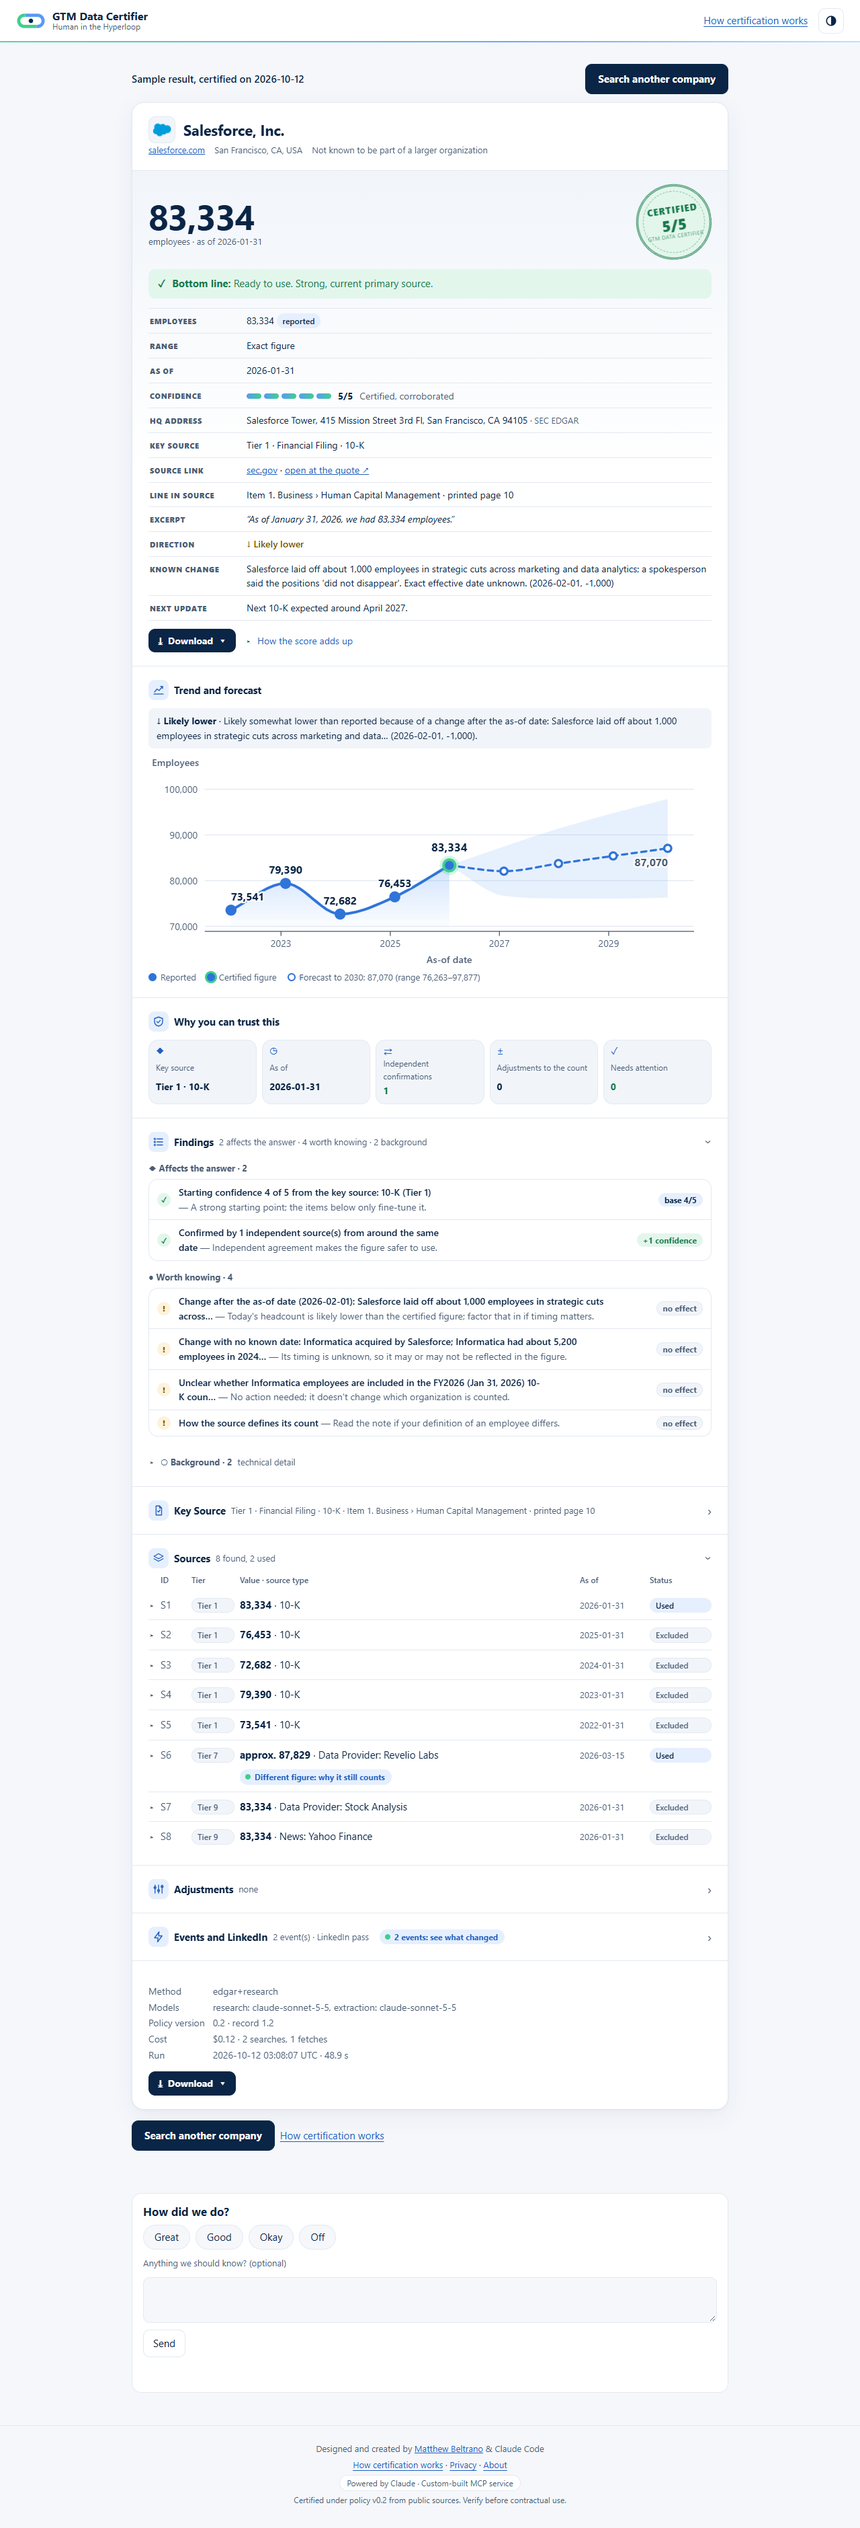
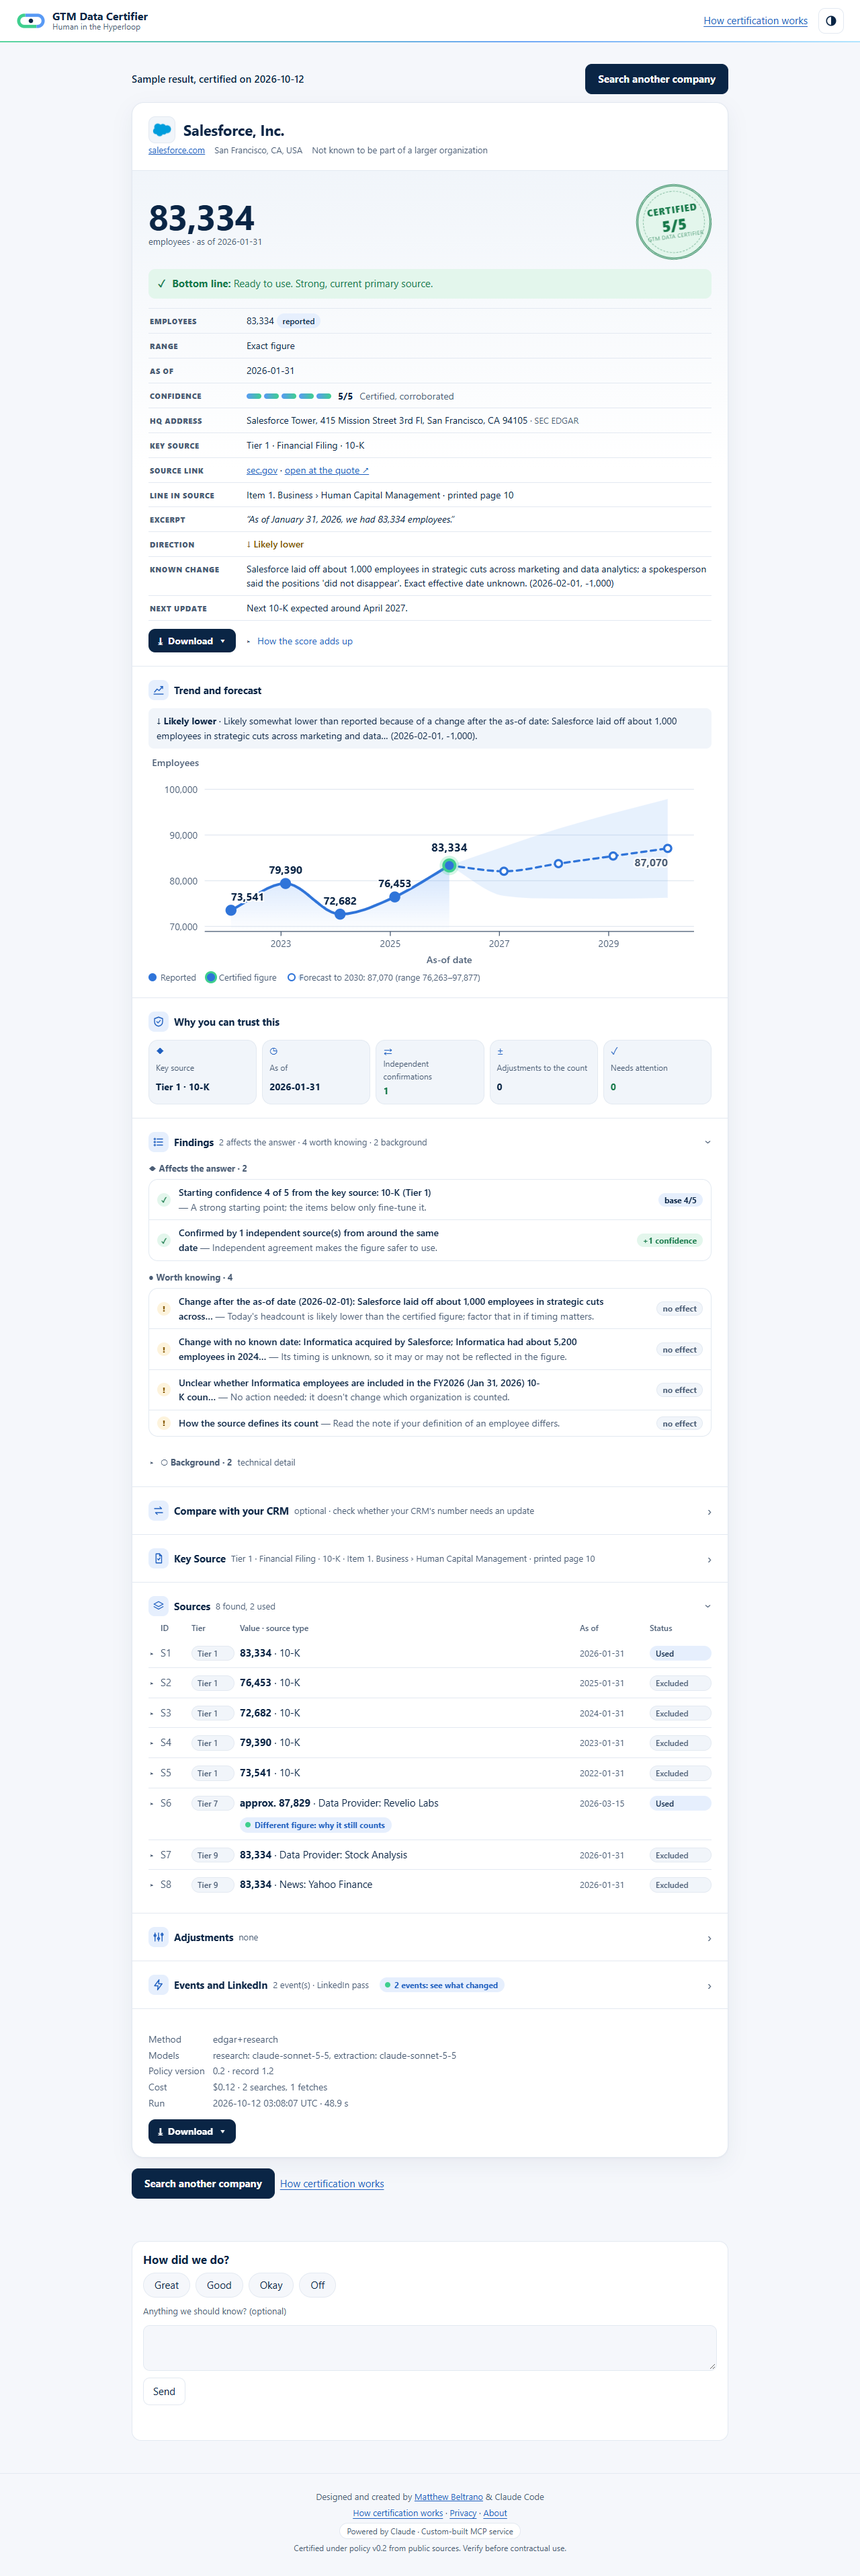
Compare with your CRM: optional bumper-car recommendation
Collapsed section after Findings. A lane around the certified figure narrows
with confidence (5% at 5/5 to 40% at 1/5) and widens toward the likely
direction. Inside: keep. Outside: move in, to the certified figure at 4-5/5,
halfway at 3/5, to the bumper at 1-2/5; stronger when the move agrees with
the direction, only to the bumper when it doesn't. Runs in the page.

diff --git a/src/certifier/card.py b/src/certifier/card.py
@@ -224,6 +224,26 @@ CARD_CSS = r"""
 .cert .dl-group { margin: 6px 10px 2px; font-size: 11px; font-weight: 800; letter-spacing: .06em; text-transform: uppercase; color: var(--muted); }
 .cert .footer-actions { margin-top: 12px; }
 .cert .footer-actions .dl-items { top: auto; bottom: calc(100% + 6px); }
+.cert .crm-form label { display: block; font-size: 12px; font-weight: 800; letter-spacing: .06em; text-transform: uppercase; color: var(--muted); margin-bottom: 4px; }
+.cert .crm-row { display: flex; gap: 8px; max-width: 420px; }
+.cert .crm-row input { flex: 1; min-width: 0; font: inherit; padding: 8px 10px; border-radius: 10px; border: 1px solid var(--line); background: var(--card); color: var(--text); }
+.cert .crm-out { margin-top: 12px; }
+.cert .crm-verdict { margin: 0 0 6px; padding: 10px 12px; border-radius: 10px; font-size: 14px; }
+.cert .crm-verdict.keep { background: var(--green-bg); color: var(--green); }
+.cert .crm-verdict.strong { background: var(--red-bg); color: var(--red); }
+.cert .crm-verdict.moderate { background: var(--yellow-bg); color: var(--yellow); }
+.cert .crm-verdict.light { background: var(--soft); color: var(--text); }
+.cert .lane { position: relative; height: 14px; margin: 34px 0 34px; border-radius: 999px; background: var(--soft); border: 1px solid var(--line); }
+.cert .lane-band { position: absolute; top: -1px; bottom: -1px; border-radius: 999px; background: linear-gradient(90deg, rgba(63, 207, 142, .35), rgba(89, 154, 245, .35));
+  border: 1.5px solid var(--loop-green); }
+.cert .lane-mark { position: absolute; top: 50%; width: 14px; height: 14px; margin: -7px 0 0 -7px; border-radius: 50%; border: 3px solid var(--card); }
+.cert .lane-mark b { position: absolute; left: 50%; transform: translateX(-50%); white-space: nowrap; font-size: 11.5px; font-weight: 700; }
+.cert .cert-mark { background: var(--loop-green); box-shadow: 0 0 0 2px var(--loop-green); }
+.cert .cert-mark b { bottom: 18px; color: var(--green); }
+.cert .crm-mark { background: var(--muted); }
+.cert .crm-mark b { top: 18px; color: var(--muted); }
+.cert .target-mark { background: var(--loop-blue); }
+.cert .target-mark b { bottom: 18px; color: var(--accent); }
 .cert .hint { display: inline-flex; align-items: center; gap: 6px; margin-left: 8px; padding: 2px 10px 2px 8px; border-radius: 999px;
   font-size: 12px; font-weight: 700; color: var(--accent); background: var(--accent-soft); white-space: nowrap; }
 .cert .hint i { width: 8px; height: 8px; border-radius: 50%; background: var(--loop-green); animation: cert-ping 1.6s ease-out infinite; }
@@ -343,7 +363,8 @@ CARD_JS = r"""
     adjust: '<path d="M5 4v16M12 4v16M19 4v16"/><circle cx="5" cy="9" r="2"/><circle cx="12" cy="15" r="2"/><circle cx="19" cy="7" r="2"/>',
     events: '<path d="M13 2L4 14h7l-1 8 9-12h-7z"/>',
     trend: '<path d="M3 20h18"/><path d="M4 16l5-6 4 3 7-8"/><path d="M16 5h4v4"/>',
-    trust: '<path d="M12 3l8 3v6c0 5-3.5 8-8 9-4.5-1-8-4-8-9V6z"/><path d="M8.5 12l2.5 2.5 4.5-5"/>'
+    trust: '<path d="M12 3l8 3v6c0 5-3.5 8-8 9-4.5-1-8-4-8-9V6z"/><path d="M8.5 12l2.5 2.5 4.5-5"/>',
+    compare: '<path d="M4 8h14l-3.5-3.5"/><path d="M20 16H6l3.5 3.5"/>'
   };
   function icon(name, cls) {
     var span = el("span", { cls: "ico" + (cls ? " " + cls : ""), "aria-hidden": "true" });
@@ -833,6 +854,89 @@ CARD_JS = r"""
     details.addEventListener("toggle", function () { if (details.open) { markSeen(key); h.remove(); } });
   }
 
+  // ---------- Compare with your CRM (optional): bumper-car recommendation ----------
+  // The certified figure sits in a lane whose bumpers narrow as confidence rises. A CRM number inside the lane is
+  // fine; outside it, we suggest moving it in, pushing harder (toward the certified figure itself) the higher the
+  // confidence, and harder still when the move agrees with the likely direction since the as-of date.
+  var CRM_TOLERANCE = { 5: 0.05, 4: 0.08, 3: 0.15, 2: 0.25, 1: 0.40 };
+  var CRM_STRENGTH = { strong: "Update recommended", moderate: "Consider updating", light: "Optional: review" };
+  function parseCount(text) {
+    var m = String(text || "").trim().toLowerCase().replace(/[,\s]/g, "").match(/^(\d+(?:\.\d+)?)(k|m)?$/);
+    if (!m) return null;
+    var v = parseFloat(m[1]) * (m[2] === "k" ? 1e3 : m[2] === "m" ? 1e6 : 1);
+    return v > 0 ? Math.round(v) : null;
+  }
+  function crmAdvice(r, v) {
+    var h = r.headline, c = h.count, score = r.confidence.score, t = CRM_TOLERANCE[score];
+    if (c == null || !t) return { kind: "none", text: "There's no certified figure to compare against." };
+    var lo = Math.min(h.range ? h.range[0] : c, c * (1 - t)), hi = Math.max(h.range ? h.range[1] : c, c * (1 + t));
+    if (h.direction === "lower") lo -= c * t / 2;  // the true figure has likely moved down: widen the lower bumper
+    if (h.direction === "higher") hi += c * t / 2;
+    lo = Math.round(lo); hi = Math.round(hi);
+    var band = { lo: lo, hi: hi, certified: c };
+    if (v >= lo && v <= hi) {
+      return { kind: "keep", band: band, label: "Keep your number",
+        text: "Your CRM's " + num(v) + " is inside the certified range for a " + score + "/5 certification (" + num(lo) + "–" + num(hi) +
+          "). No change needed" + (Math.abs(v - c) / c > 0.02 ? "; for the most exact figure, use " + num(c) + "." : ".") };
+    }
+    var above = v > hi, edge = above ? hi : lo, off = above ? (v - hi) / hi : (lo - v) / lo;
+    var agrees = (above && h.direction === "lower") || (!above && h.direction === "higher");
+    var against = (above && h.direction === "higher") || (!above && h.direction === "lower");
+    var target = score >= 4 ? c : score === 3 ? Math.round((edge + c) / 2) : edge;
+    var strength = score >= 4 ? "strong" : score === 3 ? "moderate" : "light";
+    if (agrees) strength = strength === "light" ? "moderate" : "strong";
+    if (against) {
+      target = edge;  // the true figure may be beyond ours in your direction: move only into the lane
+      if (strength === "strong" && score < 5) strength = "moderate";
+    }
+    var why = agrees ? " The likely direction since the as-of date (" + h.direction + ") points the same way, so we'd make this change."
+      : against ? " The figure has likely moved " + (h.direction === "higher" ? "up" : "down") + " since its as-of date, so we suggest moving only to the edge of the range."
+      : "";
+    return { kind: strength, band: band, target: target, label: CRM_STRENGTH[strength],
+      text: "Your CRM's " + num(v) + " is " + Math.round(off * 100) + "% " + (above ? "above" : "below") + " the certified range for a " + score +
+        "/5 certification (" + num(lo) + "–" + num(hi) + "). Suggested update: " + num(target) + "." + why };
+  }
+  function lane(adv, v) {
+    var b = adv.band, pts = [b.lo, b.hi, b.certified, v].concat(adv.target ? [adv.target] : []);
+    var min = Math.min.apply(null, pts), max = Math.max.apply(null, pts), pad = (max - min) * 0.12 || max * 0.05;
+    min -= pad; max += pad;
+    var at = function (x) { return ((x - min) / (max - min) * 100).toFixed(2) + "%"; };
+    var track = el("div", { cls: "lane", role: "img", "aria-label": "Certified range " + num(b.lo) + " to " + num(b.hi) +
+      ", certified " + num(b.certified) + ", your CRM " + num(v) + (adv.target ? ", suggested " + num(adv.target) : "") });
+    track.appendChild(el("span", { cls: "lane-band", style: "left:" + at(b.lo) + ";width:calc(" + at(b.hi) + " - " + at(b.lo) + ")" }));
+    var mark = function (x, cls, label) { track.appendChild(el("span", { cls: "lane-mark " + cls, style: "left:" + at(x) }, [el("b", { text: label })])); };
+    mark(b.certified, "cert-mark", "Certified " + num(b.certified));
+    mark(v, "crm-mark", "Your CRM " + num(v));
+    if (adv.target && adv.target !== b.certified) mark(adv.target, "target-mark", "Suggested " + num(adv.target));
+    return track;
+  }
+  function crmCheck(r) {
+    var k = r.__k, input = el("input", { type: "text", inputmode: "numeric", autocomplete: "off", id: k + "-crm-input",
+      placeholder: "e.g. 95,000 or 95k", "aria-describedby": k + "-crm-help" });
+    var go = el("button", { type: "submit", text: "Check" }), out = el("div", { cls: "crm-out", "aria-live": "polite" });
+    var form = el("form", { cls: "crm-form" }, [el("label", { "for": k + "-crm-input", text: "Your CRM employee count" }),
+      el("div", { cls: "crm-row" }, [input, go])]);
+    form.addEventListener("submit", function (e) {
+      e.preventDefault();
+      out.textContent = "";
+      var v = parseCount(input.value);
+      if (v == null) { out.appendChild(el("p", { cls: "small muted", text: "Enter a number, for example 95,000 or 95k." })); return; }
+      var adv = crmAdvice(r, v);
+      if (adv.kind === "none") { out.appendChild(el("p", { cls: "small muted", text: adv.text })); return; }
+      out.appendChild(el("p", { cls: "crm-verdict " + adv.kind }, [el("strong", { text: adv.label }), " · " + adv.text]));
+      out.appendChild(lane(adv, v));
+      if (adv.target) {
+        var cp = el("button", { type: "button", cls: "secondary", text: "Copy suggested number" });
+        cp.addEventListener("click", function () { copyText(String(adv.target), cp, "Copy suggested number"); });
+        out.appendChild(el("div", { cls: "row", style: "margin-top:8px" }, [cp]));
+      }
+    });
+    return section("Compare with your CRM", "optional · check whether your CRM's number needs an update", [
+      el("p", { id: k + "-crm-help", cls: "small muted", style: "margin:0 0 8px",
+        text: "We keep a lane around the certified figure: narrow when confidence is high, wider when it's low. Inside it, keep your number; outside it, we suggest how far to move it." }),
+      form, out], false, k + "-crm", "compare");
+  }
+
   function sources(r) {
     var items = r.sources.items, k = r.__k;
     if (!items.length) return section("Sources", "none", [none(r.sources.none_reason)], false, k + "-sources", "sources");
@@ -946,7 +1050,7 @@ CARD_JS = r"""
     records.forEach(function (r, i) {
       r.__k = "r" + i;
       root.appendChild(el("article", { cls: "card", "aria-label": "Certification for " + r.entity.name }, [
-        header(r, opts), answer(r, opts), trendBlock(r), trust(r), findings(r), primary(r), sources(r), adjustments(r), events(r),
+        header(r, opts), answer(r, opts), trendBlock(r), trust(r), findings(r), crmCheck(r), primary(r), sources(r), adjustments(r), events(r),
         footer(r, records, opts)]));
     });
     if (location.hash === "#expand-all") Array.prototype.forEach.call(root.querySelectorAll("details"), function (d) { d.open = true; });
@@ -954,7 +1058,7 @@ CARD_JS = r"""
     return records;
   }
 
-  window.GTMCard = { render: render, toRecords: toRecords };
+  window.GTMCard = { render: render, toRecords: toRecords, crmAdvice: crmAdvice, parseCount: parseCount };
 })();
 """
 

diff --git a/DECISIONS.md b/DECISIONS.md
@@ -675,3 +675,25 @@ The record's entity carries `address` and `address_source`, shown as **HQ addres
 - **Facts table labels:** bold small capitals.
 - **A layering bug the click-through caught:** an open menu sat beneath the next section, whose entrance animation
   forms its own stacking layer. The answer block and the footer are now raised above their neighbours.
+
+### D90. Compare with your CRM (optional, "bumper car")
+- **Where:** a collapsed section after Findings. It's never upfront and never needed for downloads, and it works the same in
+  Claude's in-chat card. The person enters their CRM's employee count; "95k" and "95,000" both work.
+- **The lane:** the certified figure sits in a lane whose bumpers narrow as confidence rises: ±5% at 5/5, ±8% at 4/5,
+  ±15% at 3/5, ±25% at 2/5, ±40% at 1/5. The lane is never narrower than the certified range, and it widens toward the
+  likely direction since the as-of date (by half the tolerance).
+- **Inside the lane:** "Keep your number."
+- **Outside the lane:** a move into the lane, pushing harder the higher the confidence.
+
+  | Confidence | Label | Suggested number |
+  | --- | --- | --- |
+  | 4–5 | "Update recommended" | the certified figure |
+  | 3 | "Consider updating" | halfway between the nearest bumper and the certified figure |
+  | 1–2 | "Optional: review" | the nearest bumper |
+
+- **Direction:** a move that agrees with the likely direction is one step stronger. A move against it goes only to the
+  bumper, and drops a step below 5/5.
+- **Display:** a lane graphic shows the band, the certified figure, the CRM number and the suggestion, with "Copy
+  suggested number".
+- **Privacy:** nothing is sent to the server; the check runs in the page.
+- **Tests:** ten scenarios, run against the real card code in a browser.

diff --git a/README.md b/README.md
@@ -127,9 +127,12 @@ From top to bottom:
    - **Background:** technical detail, collapsed
 
    Every finding has a plain-English **"so what"** telling you whether to act.
-7. **Key source, sources, adjustments, events:** the full evidence: every source found, used or excluded and why, with
+7. **Compare with your CRM (optional):** enter your CRM's number and get a recommendation. Inside the lane around the
+   certified figure (narrow at high confidence, wide at low), keep it. Outside it, move it in: to the certified
+   figure at 4–5/5, halfway at 3/5, just to the edge at 1–2/5, and more firmly when the likely direction agrees.
+8. **Key source, sources, adjustments, events:** the full evidence: every source found, used or excluded and why, with
    the detailed passage and location.
-8. **Download** (top and bottom of the card, and in Claude): Copy for CRM, a **4-slide PowerPoint** (light or dark, in the brand), a **Word document** with the full supporting detail, a summary CSV, a sources CSV, and JSON (the full certification record).
+9. **Download** (top and bottom of the card, and in Claude): Copy for CRM, a **4-slide PowerPoint** (light or dark, in the brand), a **Word document** with the full supporting detail, a summary CSV, a sources CSV, and JSON (the full certification record).
 
 ---
 
